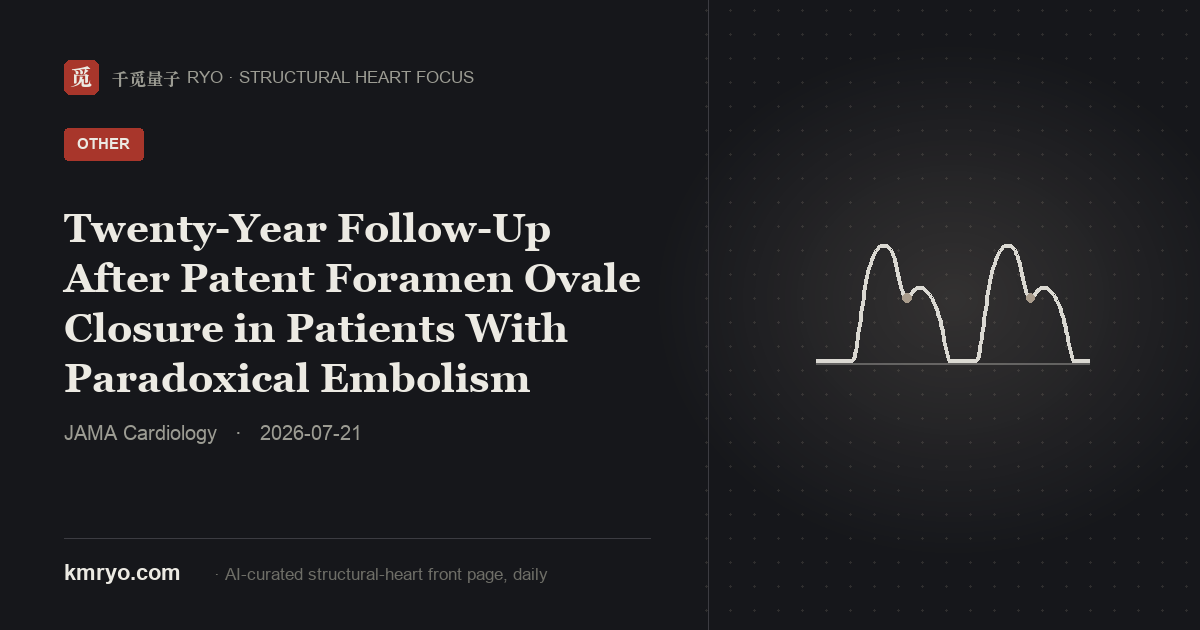
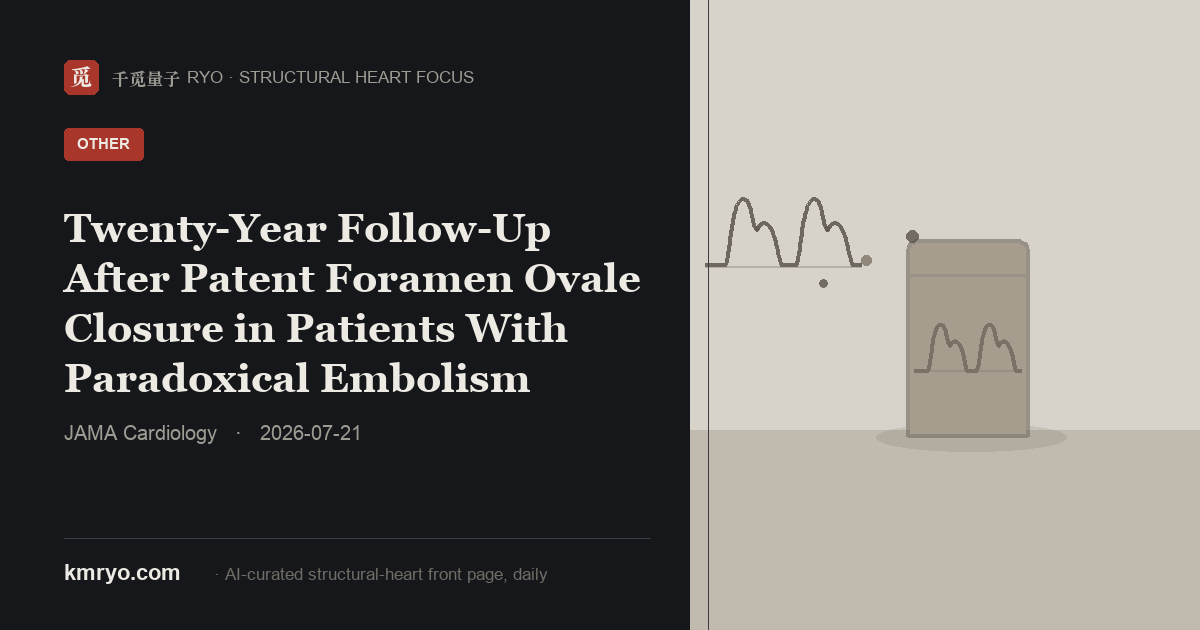
Morandi still-life cards: topic bottles with printed elements that pour on hover
Each topic gets its own vessel on a two-tone Morandi colour field (tall
bottle, carafe, jug, squat jar, flask, canister); the valve/device
element is printed on the glaze and, on hover, the bottle tips and
pours the element out with a few staggered drops. Share card draws the
same still life statically with the element poured out beside the
bottle. Reduced-motion users get the still scene without animation.

diff --git a/index.html b/index.html
@@ -424,6 +424,21 @@ html[data-lang="zh"] .brief h4 { font-family: "Noto Serif SC",serif; line-height
 .feat-media { position: relative; height: 172px; overflow: hidden; border-bottom: 1px solid var(--hair-soft); }
 .feat-media img, .feat-media svg { width: 100%; height: 100%; object-fit: cover; display: block; transition: transform 0.5s cubic-bezier(0.22,1,0.36,1); }
 @media (pointer: fine) { .feature:hover .feat-media img, .feature:hover .feat-media svg { transform: scale(1.06); } }
+
+/* Morandi still-life hover: the bottle tips and the printed element pours out */
+.m-bottle, .m-pour, .m-drop { transform-box: fill-box; }
+.m-bottle { transform-origin: 50% 100%; transition: transform 0.7s cubic-bezier(0.34, 1.45, 0.4, 1); }
+.m-pour { opacity: 0; transform-origin: center; transform: translate(10px, 16px) rotate(8deg) scale(0.45); transition: transform 0.7s cubic-bezier(0.3, 1.3, 0.4, 1), opacity 0.4s ease 0.05s; }
+.m-drop { opacity: 0; transition: transform 0.6s cubic-bezier(0.5, 0, 0.7, 0.4), opacity 0.35s ease; }
+@media (pointer: fine) {
+  .card:hover .m-bottle { transform: rotate(-24deg); }
+  .card:hover .m-pour { opacity: 1; transform: translate(-185px, -16px) rotate(-12deg) scale(1); }
+  .card:hover .m-drop { opacity: 0.85; }
+  .card:hover .m-d1 { transform: translate(-64px, 30px); transition-delay: 0.08s, 0.08s; }
+  .card:hover .m-d2 { transform: translate(-106px, 74px); transition-delay: 0.16s, 0.16s; }
+  .card:hover .m-d3 { transform: translate(-142px, 118px); transition-delay: 0.24s, 0.24s; }
+}
+html.reduced .m-bottle, html.reduced .m-pour, html.reduced .m-drop { transition: none; }
 .feat-body { padding: 1rem 1.1rem 1.05rem; display: flex; flex-direction: column; gap: 0.5rem; flex: 1; }
 .feat-kick { display: flex; align-items: center; gap: 0.5rem; font-size: 0.6rem; letter-spacing: 0.13em; text-transform: uppercase; color: var(--faint); }
 .feat-kick .k-topic { color: var(--acc, var(--seal)); background: none; padding: 0; }
@@ -828,9 +843,26 @@ tickTime(); setInterval(tickTime, 30000);
     Other:     {en:'Structural',    zh:'结构'}
   };
 
-  // small-element line art — one anatomical/device element per article, drawn around (0,0), radius ≤ 150.
-  // Each topic has variants; the article's type picks which one (journal → anatomy, regulatory/industry → device, guideline/social → schema).
-  const ART_TONE = { TAVI:'#C4897B', Mitral:'#93A98D', Tricuspid:'#8A9DB3', LAA:'#BFA47F', Imaging:'#A192B4', Other:'#A99C8C' };
+  // Morandi still-life vessels — each topic keeps its own bottle on a two-tone colour field;
+  // the valve/device element is printed on the glaze and pours out of the bottle on hover.
+  // Element motifs drawn around (0,0), radius ≤ 150; the article's type picks the variant
+  // (journal → anatomy, regulatory/industry → device, guideline/social → schema).
+  const PAL = {
+    TAVI:      { field:'#D8C7BD', table:'#C2AB9E', vessel:'#B08D7F', ink:'#5F4A41', accent:'#A56A58' },
+    Mitral:    { field:'#D4D7C8', table:'#BCC2AC', vessel:'#96A488', ink:'#4E5A47', accent:'#75876A' },
+    Tricuspid: { field:'#CDD4D9', table:'#B2BFC7', vessel:'#8CA0AE', ink:'#46545F', accent:'#5F7A8C' },
+    LAA:       { field:'#DFD5C0', table:'#CBB995', vessel:'#B4A078', ink:'#635640', accent:'#96814F' },
+    Imaging:   { field:'#D6CFDB', table:'#BFB3C9', vessel:'#9E90B2', ink:'#514965', accent:'#7A6C93' },
+    Other:     { field:'#D8D3CA', table:'#C1BAAE', vessel:'#A69D8F', ink:'#575046', accent:'#7E7466' }
+  };
+  const BOTTLES = {
+    TAVI:      { d:'M-58 0 L-58 -118 Q-58 -146 -30 -156 L-16 -162 L-16 -222 Q-16 -230 -8 -230 L8 -230 Q16 -230 16 -222 L16 -162 L30 -156 Q58 -146 58 -118 L58 0 Z', mouth:[0,-230], belly:[0,-84], ps:0.38, hw:58 },
+    Mitral:    { d:'M-33 -148 Q-84 -136 -84 -76 Q-84 -20 -44 -6 Q-24 0 0 0 Q24 0 44 -6 Q84 -20 84 -76 Q84 -136 33 -148 L33 -172 Q33 -180 25 -180 L-25 -180 Q-33 -180 -33 -172 Z', mouth:[0,-180], belly:[0,-78], ps:0.44, hw:84 },
+    Tricuspid: { d:'M-62 0 L-70 -120 Q-72 -152 -38 -160 L-20 -164 L-20 -196 Q-20 -204 -10 -204 L14 -204 Q22 -204 20 -196 L16 -164 L34 -158 Q66 -150 64 -118 L56 0 Z', extra:'M20 -196 Q66 -188 62 -142 Q60 -122 42 -118', mouth:[0,-204], belly:[0,-84], ps:0.36, hw:66 },
+    LAA:       { d:'M-88 0 Q-96 -8 -96 -52 Q-96 -118 -48 -132 L-30 -136 L-30 -148 Q-30 -154 -22 -154 L22 -154 Q30 -154 30 -148 L30 -136 L48 -132 Q96 -118 96 -52 Q96 -8 88 0 Z', mouth:[0,-154], belly:[0,-66], ps:0.48, hw:96 },
+    Imaging:   { d:'M-74 0 L-20 -160 L-20 -192 Q-20 -200 -12 -200 L12 -200 Q20 -200 20 -192 L20 -160 L74 0 Z', mouth:[0,-200], belly:[0,-60], ps:0.3, hw:74 },
+    Other:     { d:'M-52 0 L-52 -158 Q-52 -170 -42 -170 L42 -170 Q52 -170 52 -158 L52 0 Z', extra:'M-52 -140 L52 -140', mouth:[0,-170], belly:[0,-78], ps:0.36, hw:52 }
+  };
   const ELEMENTS = {
     TAVI: [
       // aortic valve, short axis — three leaflets
@@ -876,22 +908,32 @@ tickTime(); setInterval(tickTime, 30000);
     ]
   };
   const TYPE_VARIANT = { journal:0, conference:0, news:0, guideline:2, social:2, regulatory:1, industry:1 };
-  const LIGHT = 'rgba(243,238,228,0.9)';
   let ARTUID = 0;
   function heroArt(topic, type) {
     const uid = 'a' + (ARTUID++);
-    const tone = ART_TONE[topic] || ART_TONE.Other;
+    const pal = PAL[topic] || PAL.Other;
+    const b = BOTTLES[topic] || BOTTLES.Other;
     const list = ELEMENTS[topic] || ELEMENTS.Other;
-    const vi = TYPE_VARIANT[type] || 0;
-    const motif = list[vi % list.length].replace(/"A"/g, '"' + tone + '"').replace(/"L"/g, '"' + LIGHT + '"');
+    const motif = list[(TYPE_VARIANT[type] || 0) % list.length];
+    const printM = motif.replace(/"A"/g, '"' + pal.ink + '"').replace(/"L"/g, '"' + pal.ink + '"');
+    const pourM = motif.replace(/"A"/g, '"' + pal.accent + '"').replace(/"L"/g, '"' + pal.field + '"');
+    const mx = b.mouth[0], my = b.mouth[1];
     return '<svg viewBox="0 0 800 560" preserveAspectRatio="xMidYMid slice" xmlns="http://www.w3.org/2000/svg">'
-      + '<defs><radialGradient id="rg' + uid + '" cx="62%" cy="46%" r="80%">'
-      + '<stop offset="0%" stop-color="' + tone + '" stop-opacity="0.42"/>'
-      + '<stop offset="48%" stop-color="' + tone + '" stop-opacity="0.12"/>'
-      + '<stop offset="100%" stop-color="#0c0d10" stop-opacity="1"/></radialGradient>'
-      + '<pattern id="dt' + uid + '" width="24" height="24" patternUnits="userSpaceOnUse"><circle cx="2" cy="2" r="1.2" fill="' + tone + '" fill-opacity="0.16"/></pattern></defs>'
-      + '<rect width="800" height="560" fill="#101116"/><rect width="800" height="560" fill="url(#rg' + uid + ')"/><rect width="800" height="560" fill="url(#dt' + uid + ')"/>'
-      + '<g transform="translate(516 300)" stroke="' + LIGHT + '" stroke-opacity="0.85" fill="none" stroke-linecap="round" stroke-linejoin="round">' + motif + '</g></svg>';
+      + '<defs><clipPath id="bc' + uid + '"><path d="' + b.d + '"/></clipPath></defs>'
+      + '<rect width="800" height="560" fill="' + pal.field + '"/>'
+      + '<rect y="388" width="800" height="172" fill="' + pal.table + '"/>'
+      + '<g transform="translate(516 388)">'
+      + '<ellipse cx="8" cy="7" rx="' + (b.hw + 30) + '" ry="14" fill="' + pal.ink + '" fill-opacity="0.14"/>'
+      + '<g class="m-bottle">'
+      + '<path d="' + b.d + '" fill="' + pal.vessel + '" stroke="' + pal.ink + '" stroke-opacity="0.5" stroke-width="3" stroke-linejoin="round"/>'
+      + (b.extra ? '<path d="' + b.extra + '" fill="none" stroke="' + pal.ink + '" stroke-opacity="0.5" stroke-width="5" stroke-linecap="round"/>' : '')
+      + '<g clip-path="url(#bc' + uid + ')"><g transform="translate(' + b.belly[0] + ' ' + b.belly[1] + ') scale(' + b.ps + ')" stroke="' + pal.ink + '" stroke-opacity="0.62" fill="none" stroke-linecap="round" stroke-linejoin="round">' + printM + '</g></g>'
+      + '</g>'
+      + '<g class="m-pour"><g transform="translate(' + mx + ' ' + (my - 10) + ') scale(0.72)" stroke="' + pal.ink + '" stroke-opacity="0.9" fill="none" stroke-linecap="round" stroke-linejoin="round">' + pourM + '</g></g>'
+      + '<circle class="m-drop m-d1" cx="' + mx + '" cy="' + my + '" r="6" fill="' + pal.ink + '"/>'
+      + '<circle class="m-drop m-d2" cx="' + mx + '" cy="' + my + '" r="5" fill="' + pal.accent + '"/>'
+      + '<circle class="m-drop m-d3" cx="' + mx + '" cy="' + my + '" r="4" fill="' + pal.ink + '"/>'
+      + '</g></svg>';
   }
 
   let days = [], idx = -1;

diff --git a/pulse/make_share_card.py b/pulse/make_share_card.py
@@ -268,28 +268,103 @@ def art_other(p, tone, vi):
 ART = {"TAVI": art_tavi, "Mitral": art_mitral, "Tricuspid": art_tricuspid,
        "LAA": art_laa, "Imaging": art_imaging, "Other": art_other}
 
+# Morandi still-life panel: two-tone colour field, the topic's bottle with the element
+# printed on its glaze, and the element "poured out" beside it (mirrors index.html).
+PALS = {  # field, table, vessel, ink, accent
+    "TAVI":      ((216,199,189),(194,171,158),(176,141,127),(95,74,65),(165,106,88)),
+    "Mitral":    ((212,215,200),(188,194,172),(150,164,136),(78,90,71),(117,135,106)),
+    "Tricuspid": ((205,212,217),(178,191,199),(140,160,174),(70,84,95),(95,122,140)),
+    "LAA":       ((223,213,192),(203,185,149),(180,160,120),(99,86,64),(150,129,79)),
+    "Imaging":   ((214,207,219),(191,179,201),(158,144,178),(81,73,101),(122,108,147)),
+    "Other":     ((216,211,202),(193,186,174),(166,157,143),(87,80,70),(126,116,102)),
+}
+BOTTLE_PTS = {
+    "TAVI": [(-58,0),(-58,-118)] + qbez((-58,-118),(-58,-146),(-30,-156),12)
+            + [(-16,-162),(-16,-222)] + qbez((-16,-222),(-16,-230),(-8,-230),6) + [(8,-230)]
+            + qbez((8,-230),(16,-230),(16,-222),6) + [(16,-162),(30,-156)]
+            + qbez((30,-156),(58,-146),(58,-118),12) + [(58,0)],
+    "Mitral": qbez((-33,-148),(-84,-136),(-84,-76)) + qbez((-84,-76),(-84,-20),(-44,-6))
+              + qbez((-44,-6),(-24,0),(0,0)) + qbez((0,0),(24,0),(44,-6))
+              + qbez((44,-6),(84,-20),(84,-76)) + qbez((84,-76),(84,-136),(33,-148))
+              + [(33,-172)] + qbez((33,-172),(33,-180),(25,-180),6) + [(-25,-180)]
+              + qbez((-25,-180),(-33,-180),(-33,-172),6),
+    "Tricuspid": [(-62,0),(-70,-120)] + qbez((-70,-120),(-72,-152),(-38,-160),12)
+                 + [(-20,-164),(-20,-196)] + qbez((-20,-196),(-20,-204),(-10,-204),6) + [(14,-204)]
+                 + qbez((14,-204),(22,-204),(20,-196),6) + [(16,-164),(34,-158)]
+                 + qbez((34,-158),(66,-150),(64,-118),12) + [(56,0)],
+    "LAA": [(-88,0)] + qbez((-88,0),(-96,-8),(-96,-52),8) + qbez((-96,-52),(-96,-118),(-48,-132))
+           + [(-30,-136),(-30,-148)] + qbez((-30,-148),(-30,-154),(-22,-154),6) + [(22,-154)]
+           + qbez((22,-154),(30,-154),(30,-148),6) + [(30,-136),(48,-132)]
+           + qbez((48,-132),(96,-118),(96,-52)) + qbez((96,-52),(96,-8),(88,0),8),
+    "Imaging": [(-74,0),(-20,-160),(-20,-192)] + qbez((-20,-192),(-20,-200),(-12,-200),6)
+                + [(12,-200)] + qbez((12,-200),(20,-200),(20,-192),6) + [(20,-160),(74,0)],
+    "Other": [(-52,0),(-52,-158)] + qbez((-52,-158),(-52,-170),(-42,-170),6) + [(42,-170)]
+             + qbez((42,-170),(52,-170),(52,-158),6) + [(52,0)],
+}
+BOTTLE_EXTRA = {
+    "Tricuspid": qbez((20,-196),(66,-188),(62,-142)) + qbez((62,-142),(60,-122),(42,-118)),
+    "Other": [(-52,-140),(52,-140)],
+}
+BOTTLE_BELLY = {"TAVI":(0,-84,0.38),"Mitral":(0,-78,0.44),"Tricuspid":(0,-84,0.36),
+                "LAA":(0,-66,0.48),"Imaging":(0,-60,0.3),"Other":(0,-78,0.36)}
+
+def render_element(topic, vi, s):
+    layer = Image.new("RGBA", (480, 480), (0, 0, 0, 0))
+    p = Pen(ImageDraw.Draw(layer), 240, 240, s)
+    ART[topic](p, TONES.get(topic, TONES["Other"]), vi)
+    return layer
+
+def tint(layer, color, alpha=1.0):
+    a = layer.split()[3]
+    if alpha < 1: a = a.point(lambda v: int(v*alpha))
+    out = Image.new("RGBA", layer.size, color + (0,))
+    out.putalpha(a)
+    return out
+
 def draw_panel_art(card, it, panel_x):
+    from PIL import ImageChops
     topic = it.get("topic") or "Other"
-    tone = TONES.get(topic, TONES["Other"])
+    if topic not in ART: topic = "Other"
     vi = TYPE_VARIANT.get(it.get("type") or "news", 0)
-    cx, cy = panel_x + (W - panel_x)//2 + 8, 300
-    # soft tonal vignette behind the element
-    glow = Image.new("L", (W, H), 0)
-    gd = ImageDraw.Draw(glow)
-    for r in range(300, 0, -6):
-        gd.ellipse([cx-r, cy-r*0.86, cx+r, cy+r*0.86], fill=int(52*(1 - r/300)))
-    card.paste(Image.new("RGB", (W, H), tone), (0, 0), glow)
-    # faint dot grid, like the site cards
-    dots = Image.new("RGBA", (W, H), (0, 0, 0, 0))
-    dd = ImageDraw.Draw(dots)
-    for y in range(10, H, 24):
-        for x in range(panel_x + 16, W, 24):
-            dd.ellipse([x-1, y-1, x+1, y+1], fill=tone + (44,))
-    card.paste(dots, (0, 0), dots)
-    layer = Image.new("RGBA", (W, H), (0, 0, 0, 0))
-    p = Pen(ImageDraw.Draw(layer), cx, cy, 1.05)
-    ART.get(topic, art_other)(p, tone, vi)
-    card.paste(layer, (0, 0), layer)
+    field, table, vessel, ink, accent = PALS[topic]
+    d = ImageDraw.Draw(card)
+    TABLE_Y = 430
+    d.rectangle([panel_x, 0, W, H], fill=field)
+    d.rectangle([panel_x, TABLE_Y, W, H], fill=table)
+    bx, by, s = 968, TABLE_Y + 6, 1.15
+    pts = [(bx + x*s, by + y*s) for x, y in BOTTLE_PTS[topic]]
+    over = Image.new("RGBA", (W, H), (0, 0, 0, 0))
+    od = ImageDraw.Draw(over)
+    hw = max(x for x, _ in BOTTLE_PTS[topic])
+    od.ellipse([bx-(hw+28)*s, by-13, bx+(hw+34)*s, by+15], fill=ink + (34,))
+    od.polygon(pts, fill=vessel + (255,))
+    od.line(pts + [pts[0]], fill=ink + (128,), width=4, joint="curve")
+    if topic in BOTTLE_EXTRA:
+        xpts = [(bx + x*s, by + y*s) for x, y in BOTTLE_EXTRA[topic]]
+        od.line(xpts, fill=ink + (128,), width=6 if topic == "Tricuspid" else 3, joint="curve")
+    card.paste(over, (0, 0), over)
+    # glaze print, clipped to the bottle
+    bex, bey, ps = BOTTLE_BELLY[topic]
+    el = tint(render_element(topic, vi, ps*s), ink, 0.62)
+    canvas = Image.new("RGBA", (W, H), (0, 0, 0, 0))
+    canvas.paste(el, (int(bx + bex*s) - 240, int(by + bey*s) - 240))
+    mask = Image.new("L", (W, H), 0)
+    ImageDraw.Draw(mask).polygon(pts, fill=255)
+    canvas.putalpha(ImageChops.multiply(canvas.split()[3], mask))
+    card.paste(canvas, (0, 0), canvas)
+    # the element, poured out onto the wall beside the bottle
+    poured = tint(render_element(topic, vi, 0.6), ink, 0.9)
+    card.paste(poured, (int(bx - 185) - 240, 230 - 240), poured)
+    # a few drops along the pour
+    mouth_y = by + min(y for _, y in BOTTLE_PTS[topic])*s
+    drops = Image.new("RGBA", (W, H), (0, 0, 0, 0))
+    dd = ImageDraw.Draw(drops)
+    for i, (fx, fy, r) in enumerate(((0.3, 0.35, 6), (0.55, 0.6, 5), (0.78, 0.85, 4))):
+        x = bx + (bx - 185 - bx)*fx
+        y = mouth_y + (230 - mouth_y)*fy + 26*i
+        col = accent if i == 1 else ink
+        dd.ellipse([x-r, y-r, x+r, y+r], fill=col + (200,))
+    card.paste(drops, (0, 0), drops)
 
 def main():
     date = sys.argv[1] if len(sys.argv) > 1 else None